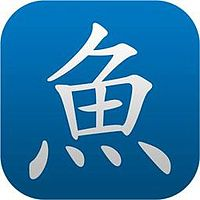
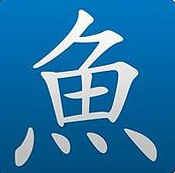
created korean page and added social media buttons to chinese ppage

diff --git a/chinese.html b/chinese.html
@@ -14,6 +14,9 @@
   <!-- Title of the website page goes here -->
   <title>Lang-Whizz Chinese</title>
 
+  <!-- Shortcut icon -->
+  <link rel="shortcut icon" type="image/x-icon" href="images/logo_4.png" />
+
   <!-- Link to Bootstrap -->
   <link href='css/bootstrap.min.css' rel='stylesheet'>
 
@@ -34,10 +37,10 @@
                     <a class="nav-item nav-link" href="#" role="button">Chinese</a>
                       </li>
                   <li class="nav-item">
-                    <a class="nav-item nav-link" href="#" role="button">German</a>
+                    <a class="nav-item nav-link" href="#" role="button">Korean</a>
                       </li>
                   <li class="nav-item">
-                    <a class="nav-item nav-link" href="#" role="button">Korean</a>
+                    <a class="nav-item nav-link" href="#" role="button">Polish</a>
                       </li>
                   <li class="nav-item">
                     <a class="nav-item nav-link" href="#" role="button">Spanish</a>
@@ -337,7 +340,7 @@
                       <div class="col-md-4">
                           <img class="img-thumbnail resources" src="images/chinese_2.png" alt="Duolingo image">
                           <h3>Duolingo</h3>
-                          <p>Duolingo is a language learning platform with a large amount of Chinese content. Test yourself on new words using their flashcards and watch your level improve without you even realising.</p>
+                          <p>Duolingo is a language learning platform with a large volume of Chinese content. Test yourself on new words using their flashcards and watch your level improve without you even realising.</p>
                           <p><a class="btn link" href="https://www.duolingo.com/" role="button">Sign-up here &raquo;</a></p>
                       </div>
                       <div class="col-md-4">
@@ -351,13 +354,14 @@
 
         <hr> <!--hr adds a line between sections and margin space-->
 
-        <div id="social-buttons" class="text-center">
+        <div class="social-buttons text-center">
 
-           <button class="btn btn-md btn-twitter">Twitter</button>
+           <a href="https://twitter.com/LanguageFluency?ref_src=twsrc%5Etfw" class="twitter-follow-button" data-show-count="false">Follow @LanguageFluency</a><script async src="https://platform.twitter.com/widgets.js" charset="utf-8"></script>
+           <a id="twitter" target="_blank" title="follow me on Twitter" href="https://twitter.com/FluencyLanguage"><img alt="follow me on twitter" src="https://c866088.ssl.cf3.rackcdn.com/assets/twitter40x40.png" border=0></a>
 
-           <button class="btn btn-md btn-facebook">Facebook</button>
+           <a id="facebook" target="_blank" title="follow me on facebook" href="https://www.facebook.com/PLACEHOLDER"><img alt="follow me on facebook" src="https://c866088.ssl.cf3.rackcdn.com/assets/facebook40x40.png" border=0></a>
 
-           <button class="btn btn-md btn-pinterest">Pinterest</button>
+           <a id="pinterest" target="_blank" title="follow me on pinterest" href="https://www.pinterest.com/PLACEHOLDER"><img alt="follow me on pinterest" src="https://c866088.ssl.cf3.rackcdn.com/assets/pinterest40x40.png" border=0></a>
 
        </div>
 

diff --git a/polish.html b/polish.html
@@ -34,10 +34,10 @@
                     <a class="nav-item nav-link" href="#" role="button">Chinese</a>
                       </li>
                   <li class="nav-item">
-                    <a class="nav-item nav-link" href="#" role="button">German</a>
+                    <a class="nav-item nav-link" href="#" role="button">Korean</a>
                       </li>
                   <li class="nav-item">
-                    <a class="nav-item nav-link" href="#" role="button">Korean</a>
+                    <a class="nav-item nav-link" href="#" role="button">Polish</a>
                       </li>
                   <li class="nav-item">
                     <a class="nav-item nav-link" href="#" role="button">Spanish</a>

diff --git a/spanish.html b/spanish.html
@@ -34,10 +34,10 @@
                     <a class="nav-item nav-link" href="#" role="button">Chinese</a>
                       </li>
                   <li class="nav-item">
-                    <a class="nav-item nav-link" href="#" role="button">German</a>
+                    <a class="nav-item nav-link" href="#" role="button">Korean</a>
                       </li>
                   <li class="nav-item">
-                    <a class="nav-item nav-link" href="#" role="button">Korean</a>
+                    <a class="nav-item nav-link" href="#" role="button">Polish</a>
                       </li>
                   <li class="nav-item">
                     <a class="nav-item nav-link" href="#" role="button">Spanish</a>

diff --git a/chinese.css b/chinese.css
@@ -74,6 +74,7 @@ hr {
     height: 140px;
     weight: auto;
     margin-bottom: 10px;
+    border-style: none;
 }
 
 .marketing{
@@ -85,19 +86,12 @@ hr {
   color: #F6E8EA;
 }
 
-#social-buttons{
+.social-buttons{
   margin-bottom: 25px;
 }
 
-.btn-twitter {
-    background: #00acee;
-    border-color: #009ad5;
-}
-.btn-facebook {
-    background: #4868ac;
-    border-color: #314776;
-}
-.btn-pinterest {
-    background: #b62f26;
-    border-color: #b62f26;
+#facebook{
+  margin-left: 20px;
+  margin-right: 20px;
+  margin-bottom: 25px;
 }
